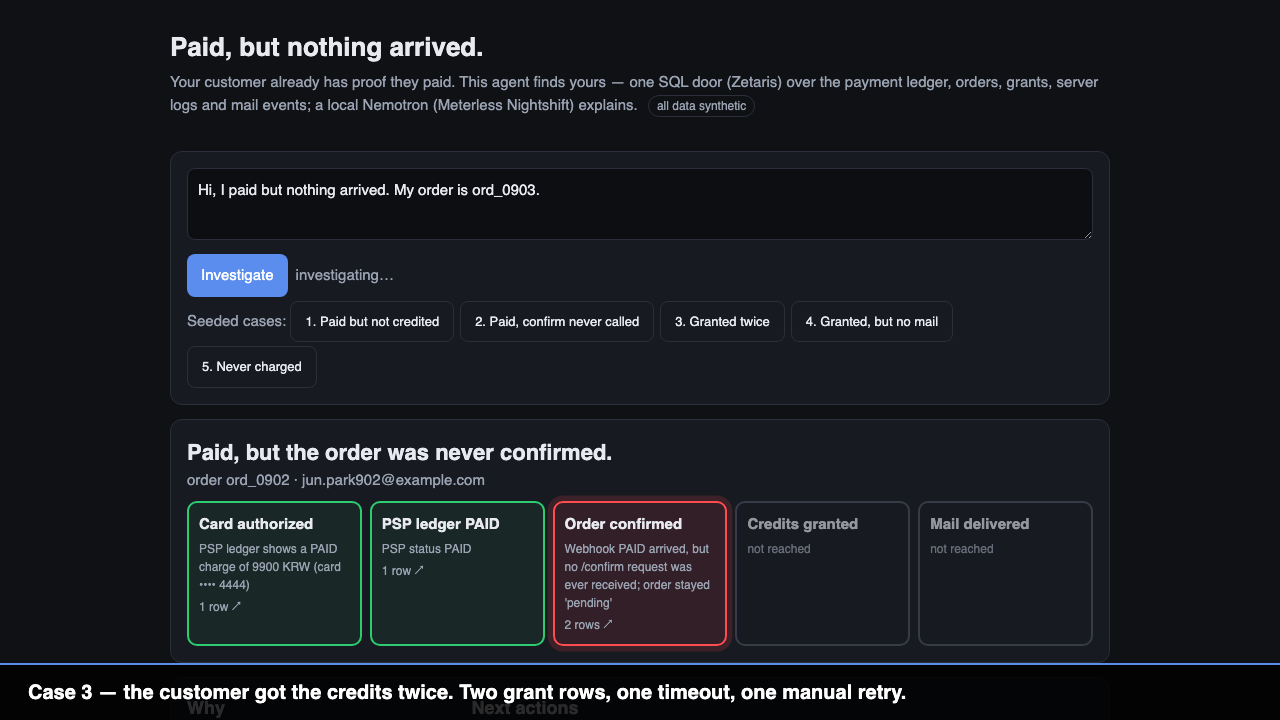
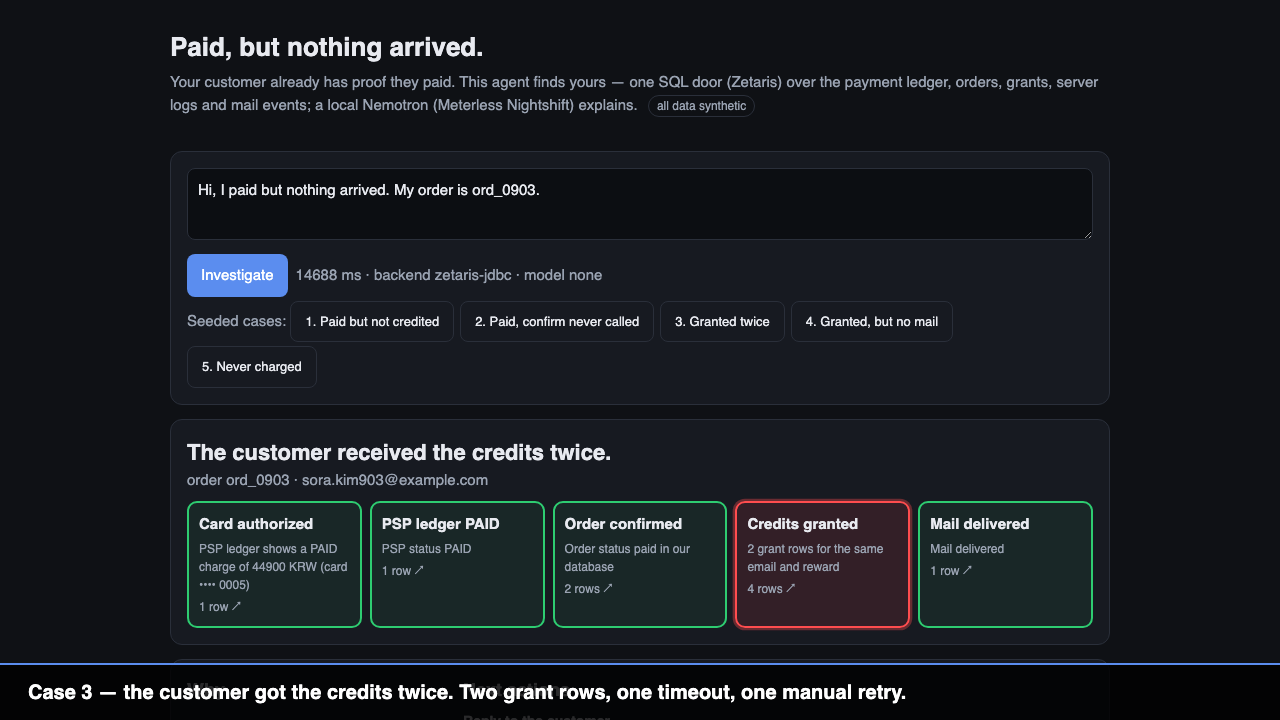
Walkthrough 2:10 recorded on Zetaris backend

diff --git a/docs/HANDOVER.md b/docs/HANDOVER.md
@@ -4,7 +4,8 @@
 
 ## 0. 지금 상태 (10/22 10:50 KST 갱신)
 - GitHub 비공개 저장소 생성·푸시됨: https://github.com/jejuolledev/paid-but-nothing-arrived (제출 전에 `gh repo edit --visibility public --accept-visibility-change-consequences`).
-- 데모 초안: `scripts/record_demo.mjs`(Playwright headless, 1280×720, 자막 배너 주입) → `docs/demo/walkthrough_draft.mp4`(53초, DuckDB 백엔드·모델 없음 상태) + `case-1~6.png` + `captions.srt`. Zetaris·Nightshift 붙인 뒤 **같은 스크립트로 다시 찍으면** 화면 상단 「backend zetaris-jdbc · model …」이 찍힌 최종본이 됨. 규정 1~4분이라 앞뒤에 문제 설명 15초·구조 한 장 15초를 더해 2분 안팎으로(ffmpeg concat 또는 recorder에 단계 추가).
+- 데모 **Zetaris 백엔드 판** 녹화 완료 11:05: `docs/demo/walkthrough_zetaris.mp4`(2분 10초, 화면에 「backend zetaris-jdbc · model none」), 캡처 case-1~6, captions.srt. Nightshift/Nemotron 붙인 뒤 한 번 더 찍으면 model 칸이 채워짐(`rm -rf docs/demo && node scripts/record_demo.mjs && ffmpeg …`). 제출 폼 값은 `docs/submission_form.md`.
+- (이전) 데모 초안: `scripts/record_demo.mjs`(Playwright headless, 1280×720, 자막 배너 주입) → `docs/demo/walkthrough_draft.mp4`(53초, DuckDB 백엔드·모델 없음 상태) + `case-1~6.png` + `captions.srt`. Zetaris·Nightshift 붙인 뒤 **같은 스크립트로 다시 찍으면** 화면 상단 「backend zetaris-jdbc · model …」이 찍힌 최종본이 됨. 규정 1~4분이라 앞뒤에 문제 설명 15초·구조 한 장 15초를 더해 2분 안팎으로(ffmpeg concat 또는 recorder에 단계 추가).
 - Zetaris 로컬 스택 `docker compose up -d` 10:45 시작(에뮬레이션이라 느림) → 로그 scratchpad/zetaris_up.log, 확인 `docker compose ps`·`./verify.sh`. 그 뒤 순서: `zetaris/load_postgres.sh`(POSTGRES_PASSWORD는 번들 `.env`에서) → `.env.local`에 JDBC 값 → `.venv/bin/python zetaris/run_sql.py`(한 문장씩 실행, 오류는 출력만) → `ZETARIS_SCHEMA=lightning.metastore.demo.order_journey`로 `pytest`.
 - Nemotron 로컬 시험: rapid-mlx 모델 다운로드 완료(16.6GB). 영상 세션(llm-de)이 `…/video-kit/output/logs/slot_open` 파일로 10분 창을 열어 주면 `scratchpad/nemotron_slot.sh`(백그라운드 감시 중)가 포트 8197에 띄워 `scripts/llm_smoke.py` 실행 → 결과 `docs/nemotron_slot_run.log`·`docs/measurements.md`. 이 수치가 「citation check 통과율·지연」 근거.
 - **hackathon.genai.works 로그인은 안 했음**: 사이트는 「Sign in」 상태(쿠키 없음). Google 로그인 버튼을 누르면 계정 선택 창까지 감. 10/18 가입이 Google 로그인이었는지 이메일+비밀번호였는지 기록이 없어, 다른 방식으로 로그인하면 **계정이 둘이 되어 실격(규정 1절)** 위험 → 대표가 직접 로그인. 로그인 뒤 작업 공간의 제출 폼 칸(영상 링크·저장소·슬라이드·설명문·pre-existing·트랙 선택)을 확인해 `docs/submission_form.md`에 적을 것.
